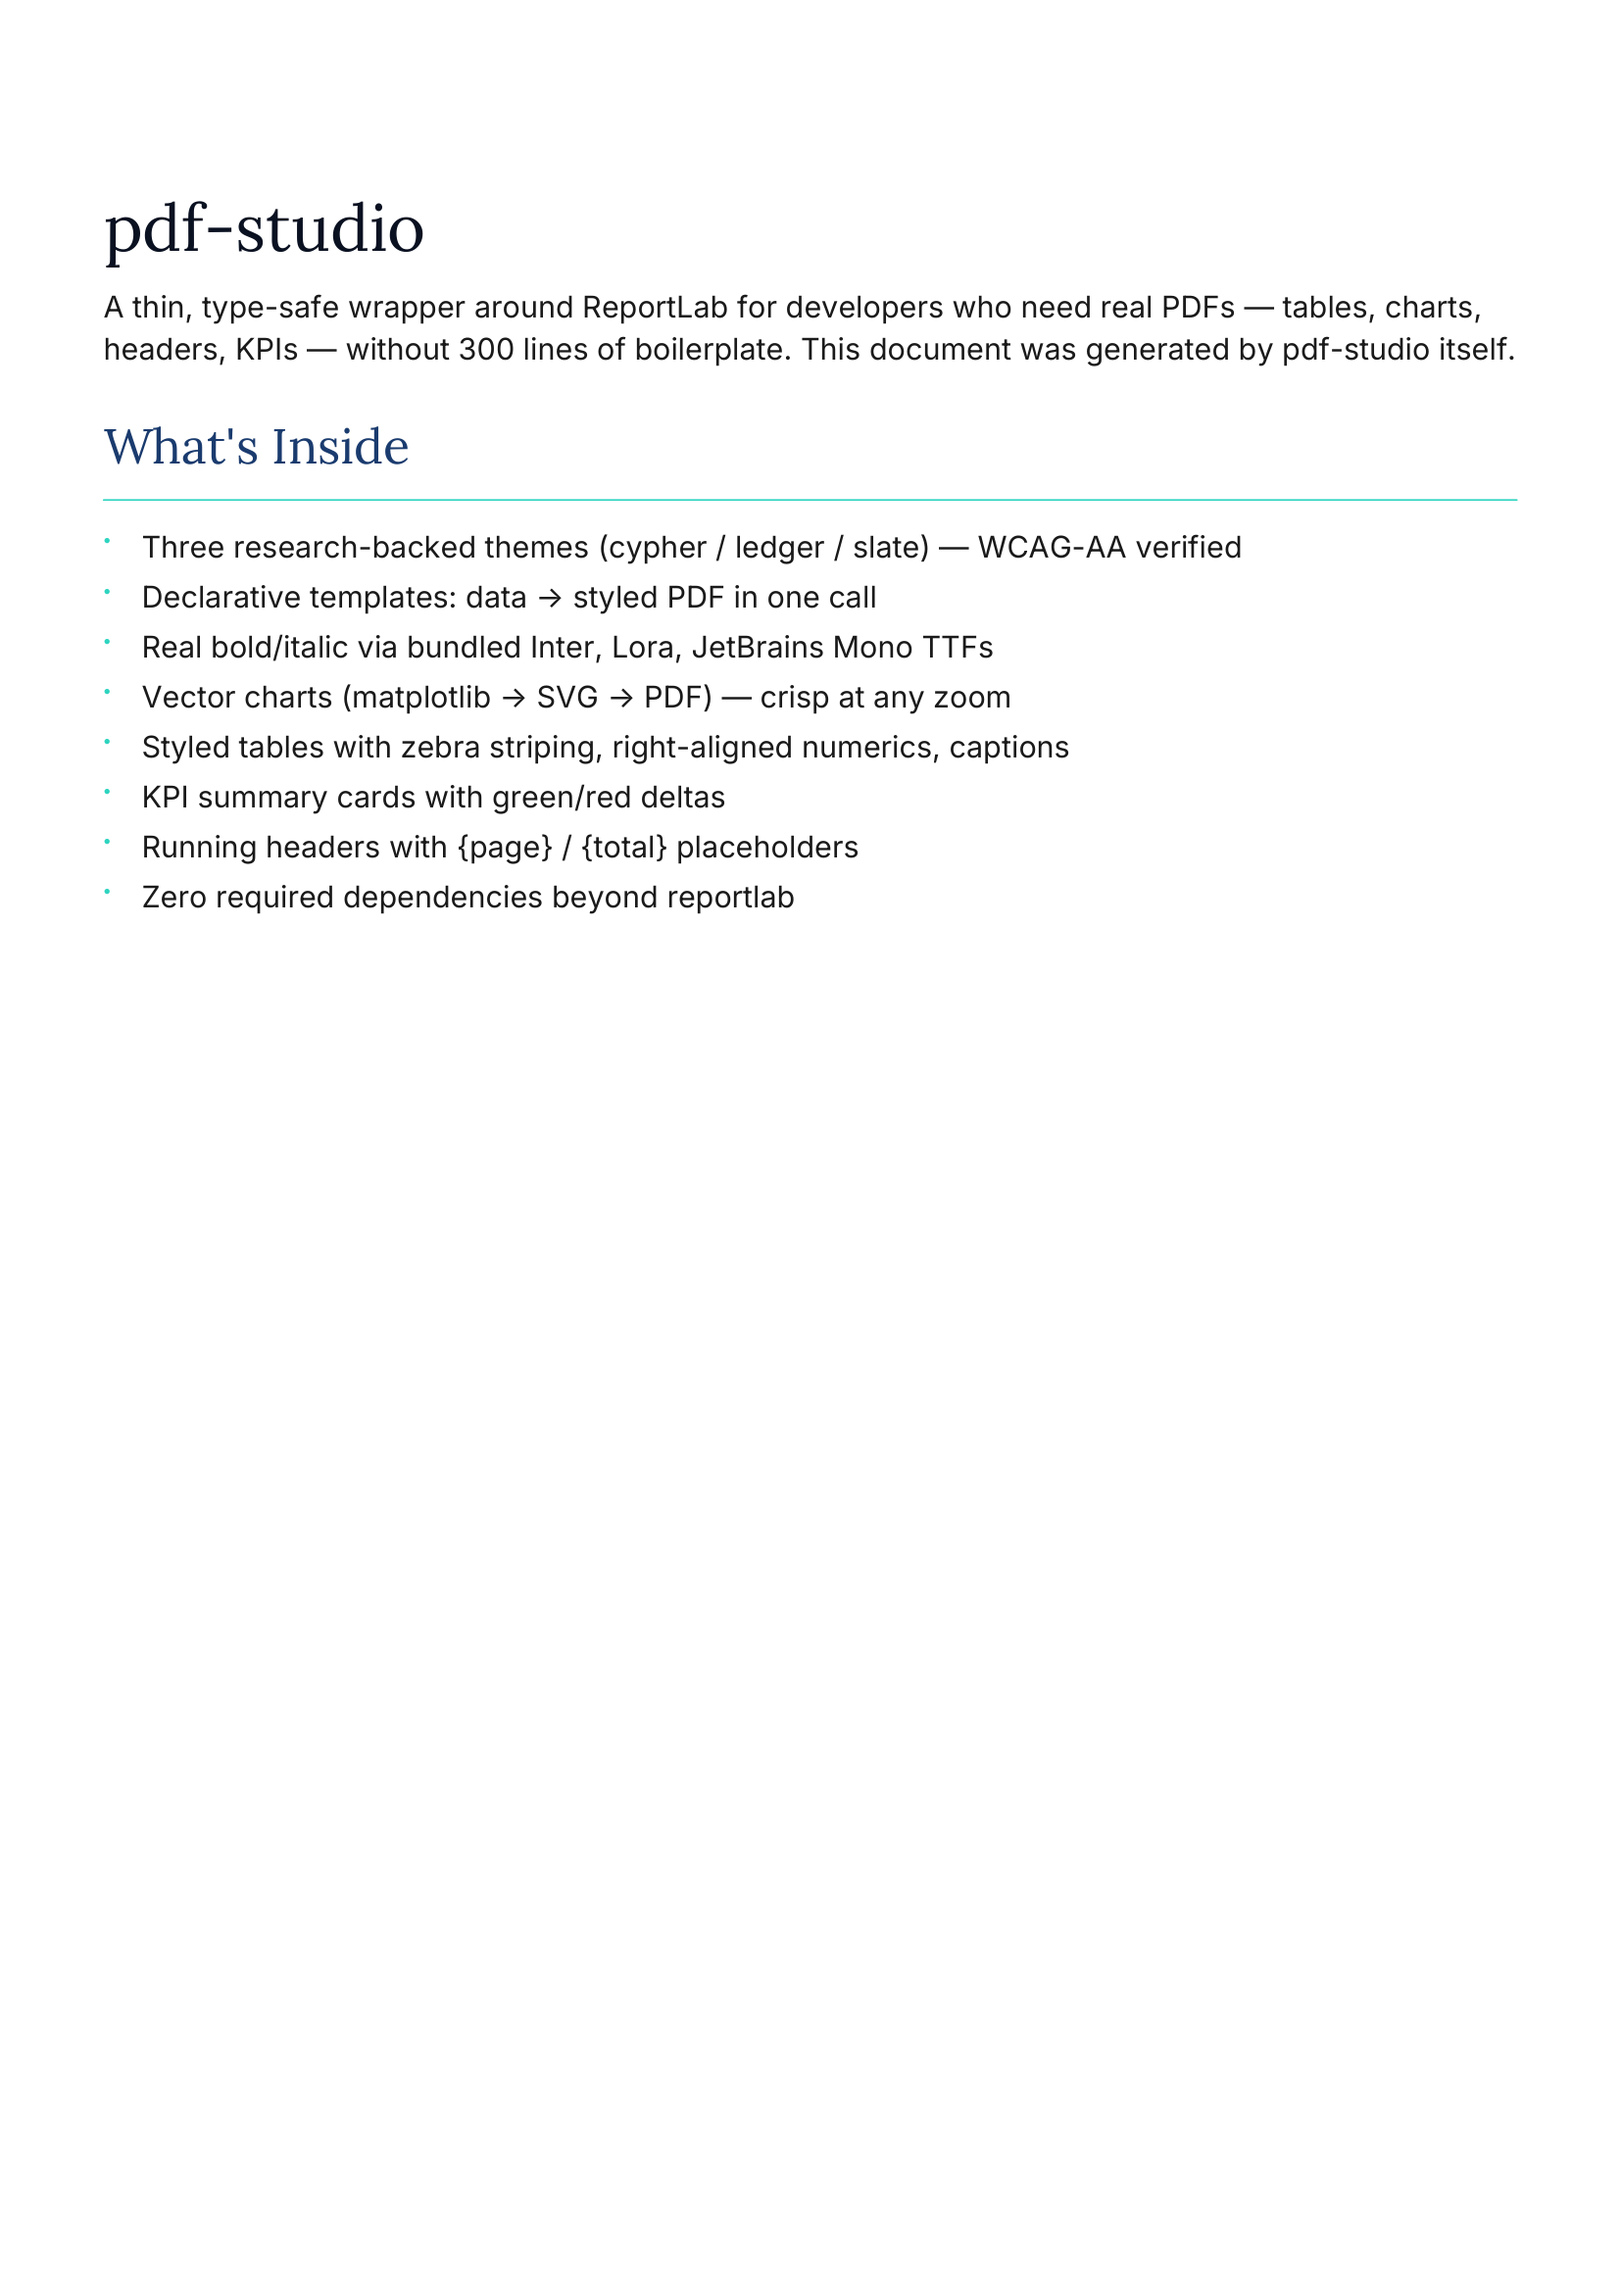
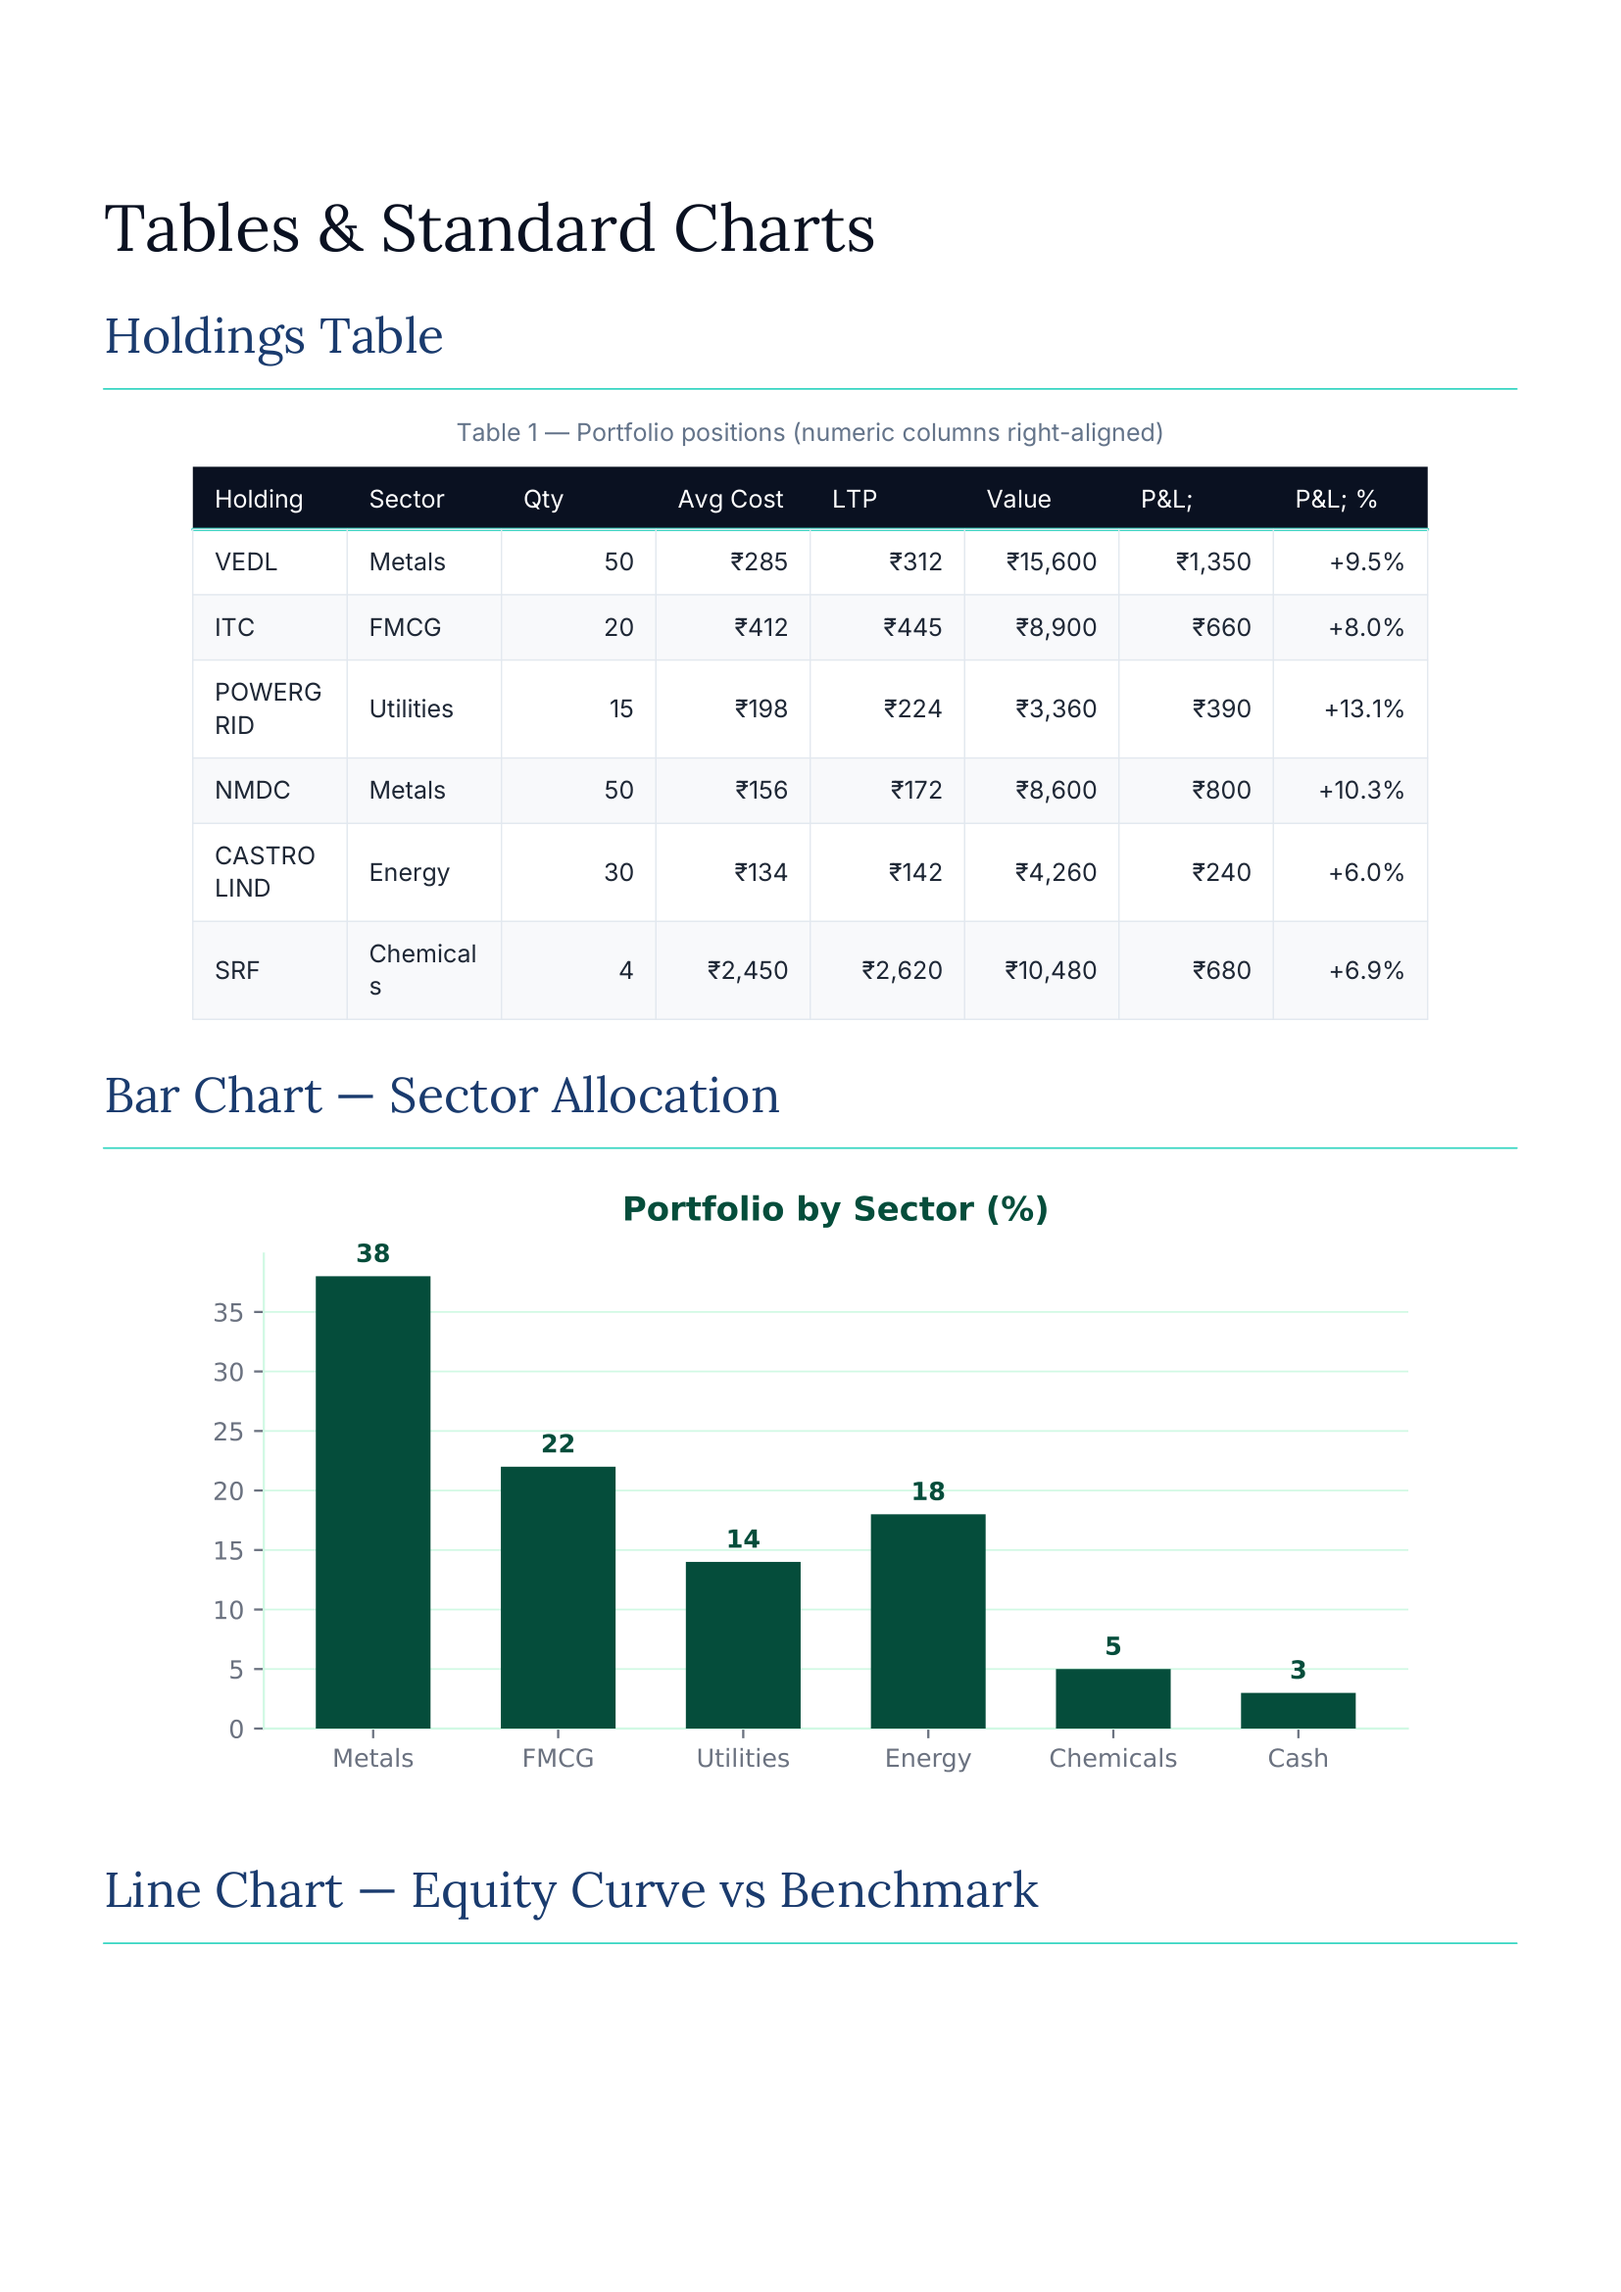
fix: donut chart layout + aspect ratio handling for square charts

diff --git a/pdf_studio/render.py b/pdf_studio/render.py
@@ -338,30 +338,35 @@ def _build_chart(
         height = width / aspect if aspect else width * 0.6
 
     # Save original SVG dimensions before overwriting — otherwise the scale
-    # factor becomes width/width = 1.0 and charts never resize.
-    orig_width = drawing.width
-    orig_height = drawing.height
+        # factor becomes width/width = 1.0 and charts never resize.
+        orig_width = drawing.width
+        orig_height = drawing.height
 
-    # Tall/square figures (donut, heatmap) look bloated at full width and
-    # refuse to pack two-per-page. Cap their rendered width so they stay
-    # proportional and leave room for a neighbour. Wide figures keep full width.
-    AVAILABLE = 6.3 * 72
-    if width > AVAILABLE:
-        width = AVAILABLE
-    if aspect < 1.3 and width > 4.6 * 72:
-        width = 4.6 * 72
+        # Tall/square figures (donut, heatmap) look bloated at full width and
+        # refuse to pack two-per-page. Cap their rendered width so they stay
+        # proportional and leave room for a neighbour. Wide figures keep full width.
+        AVAILABLE = 6.3 * 72
+        if width > AVAILABLE:
+            width = AVAILABLE
+        # Donut charts are now square (aspect ~1.0). The old logic capped width
+        # at 4.6in for aspect < 1.3, but that made them too small. For square charts,
+        # allow up to 5.5in so they fill the column without excessive side gaps.
+        if aspect >= 0.9 and aspect <= 1.2 and width > 5.5 * 72:
+            width = 5.5 * 72
+        elif aspect < 1.3 and width > 4.6 * 72:
+            width = 4.6 * 72
 
-    drawing.width = width
-    drawing.height = height
-    if orig_width and orig_height:
-        drawing.scale(width / orig_width, height / orig_height)
+        drawing.width = width
+        drawing.height = height
+        if orig_width and orig_height:
+            drawing.scale(width / orig_width, height / orig_height)
 
-        # Centre charts narrower than the content frame so they read as
-        # intentional rather than leaving a gap on the right.
-        if drawing is not None:
-            drawing.hAlign = "CENTER"
+            # Centre charts narrower than the content frame so they read as
+            # intentional rather than leaving a gap on the right.
+            if drawing is not None:
+                drawing.hAlign = "CENTER"
 
-        return drawing
+            return drawing
 
 
 def _build_chart_row(figures: list, space_after: float = 0):

diff --git a/pdf_studio/visuals.py b/pdf_studio/visuals.py
@@ -86,9 +86,14 @@ def line_chart(x, series, title=None, theme: Optional[Theme] = None):
 
 
 def donut_chart(labels, values, title=None, theme: Optional[Theme] = None):
-    """Composition donut. Slice colours cycle the theme series palette."""
+    """Composition donut. Slice colours cycle the theme series palette.
+
+    Legend is placed inside the donut hole to avoid clipping during SVG→PDF
+    conversion. Figure is square so it fits cleanly in a single column or
+    chart_row without excessive whitespace.
+    """
     theme = _theme_or(theme)
-    fig, ax = plt.subplots(figsize=(4.6, 3.6), dpi=150)
+    fig, ax = plt.subplots(figsize=(4.2, 4.2), dpi=150)  # square
     colors = [theme.series[i % len(theme.series)] for i in range(len(values))]
     wedges, _texts, autotexts = ax.pie(
         values,
@@ -96,26 +101,27 @@ def donut_chart(labels, values, title=None, theme: Optional[Theme] = None):
         startangle=90,
         counterclock=False,
         autopct=lambda p: f"{p:.0f}%",
-        pctdistance=0.78,
-        wedgeprops=dict(width=0.42, edgecolor="white", linewidth=2),
+        pctdistance=0.68,  # move % labels closer to center
+        wedgeprops=dict(width=0.38, edgecolor="white", linewidth=2),
     )
     for t in autotexts:
         t.set_color("white")
         t.set_fontsize(9)
         t.set_fontweight("bold")
+    # Legend inside the donut hole (center) instead of outside
     ax.legend(
         wedges,
         labels,
         frameon=False,
-        fontsize=9,
+        fontsize=8,
         labelcolor=theme.muted_text,
-        loc="center left",
-        bbox_to_anchor=(1.0, 0.5),
+        loc="center",
+        bbox_to_anchor=(0.5, 0.5),
     )
     if title:
-        ax.set_title(title, color=theme.foundation, fontsize=12, fontweight="bold", pad=8)
+        ax.set_title(title, color=theme.foundation, fontsize=12, fontweight="bold", pad=12)
     fig.patch.set_facecolor("white")
-    fig.tight_layout()
+    fig.tight_layout(pad=0.5)  # minimal padding
     return fig
 
 
